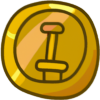
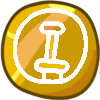
revert image for upgrading

Changed region(s): [[0.12, 0.06, 0.9, 0.84]]

diff --git a/scripts/Swollball_Player_App.ts b/scripts/Swollball_Player_App.ts
@@ -83,7 +83,7 @@ class BallUpgrades extends Phaser.Scene {
 
     preload() {
         this.load.image('refreshimage', '/content/ui/refreshimage.png');
-        this.load.image('uparrow', '/content/ui/uparrow.png');
+        this.load.image('uparrow', '/content/ui/uparrow2.png');
         this.load.image('credit', '/content/ui/credit.png');
 
         // Note that the key is the same as the upgrade name
@@ -121,6 +121,7 @@ class BallUpgrades extends Phaser.Scene {
         this.creditsLeftButton.scale = boundingDimension * 0.0012;
         this.creditsLeft = this.add.text(this.scale.canvas.width * 0.86, this.scale.canvas.height * 0.08, "0", { color: 'Black' });
         this.creditsLeft.scale = boundingDimension * 0.004;
+        this.creditsLeft.setDepth(2);
 
         // Paint the Refresh Button
         this.refreshButton = this.add.sprite(this.scale.canvas.width * 0.9, this.scale.canvas.height * 0.36, 'refreshimage');
@@ -139,6 +140,7 @@ class BallUpgrades extends Phaser.Scene {
             this.upgradeTierButton.x - this.upgradeTierButton.width * this.upgradeTierButton.scale / 2 + boundingDimension * 0.02,
             this.upgradeTierButton.y - this.upgradeTierButton.height * this.upgradeTierButton.scale / 2 + boundingDimension * 0.035, "0", { color: 'Black' });
         this.upgradeTierCost.scale = boundingDimension * 0.004;
+        this.upgradeTierCost.setDepth(2);
 
         /* Stuff for debugging hit area
         this.upgradeTierButton.on('pointerover', function (pointer) {
